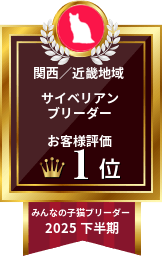
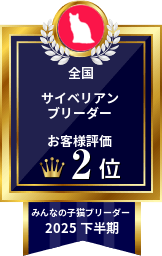
feat: 受賞バッジ更新 — 全国第2位 + 大阪府第1位を追加
- award-2025-h2.png を全国サイベリアンブリーダー第2位（2025下半期）に差し替え
- award-2025-h2-osaka.png を新規追加（大阪府第1位）
- about.html に大阪府第1位の受賞カードを追加（4カード構成に拡張）
- JSON-LD の award 配列を更新

diff --git a/about.html b/about.html
@@ -69,7 +69,7 @@
     },
     "priceRange": "¥160,000～¥290,000",
     "knowsAbout": ["サイベリアン", "ブリティッシュショートヘア", "ブリティッシュロングヘア", "ラグドール", "低アレルゲン猫", "遺伝子検査"],
-    "award": ["2025年上半期 みんなの子猫ブリーダーアワード 全国1位", "2025年下半期 みんなの子猫ブリーダーアワード 全国2位"],
+    "award": ["2025年上半期 みんなの子猫ブリーダーアワード 全国1位", "2025年下半期 みんなの子猫ブリーダーアワード 全国2位", "2025年下半期 大阪府サイベリアンブリーダー お客様評価1位"],
     "hasCredential": [
       {
         "@type": "EducationalOccupationalCredential",
@@ -211,10 +211,18 @@
         </div>
         <div class="award-card">
           <div class="award-icon">🥈</div>
-          <h3>2025年下半期<br>ブリーダーアワード</h3>
+          <h3>2025年下半期<br>全国第二位</h3>
           <p>みんなの子猫ブリーダーにおいて、2025年下半期 ブリーダーアワード 全国第二位を受賞しました。</p>
           <div class="award-badge-img">
             <img src="images/award-2025-h2.png" alt="2025年下半期 ブリーダーアワード 全国第2位" loading="lazy" style="width:100%;border-radius:var(--radius);">
+          </div>
+        </div>
+        <div class="award-card">
+          <div class="award-icon">🏅</div>
+          <h3>2025年下半期<br>大阪府第一位</h3>
+          <p>みんなの子猫ブリーダーにおいて、2025年下半期 大阪府サイベリアンブリーダー お客様評価第一位を受賞。</p>
+          <div class="award-badge-img">
+            <img src="images/award-2025-h2-osaka.png" alt="2025年下半期 大阪府サイベリアン ブリーダー 第1位" loading="lazy" style="width:100%;border-radius:var(--radius);">
           </div>
         </div>
         <div class="award-card">
@@ -480,6 +488,7 @@
       var badges = document.querySelectorAll('.award-badge-img img');
       if (img['award-1'] && badges[0]) badges[0].src = img['award-1'];
       if (img['award-2'] && badges[1]) badges[1].src = img['award-2'];
+      if (img['award-3'] && badges[2]) badges[2].src = img['award-3'];
       if (img['genetic']) {
         var genImg = document.querySelector('[alt*="遺伝子"]');
         if (genImg) genImg.src = img['genetic'];
